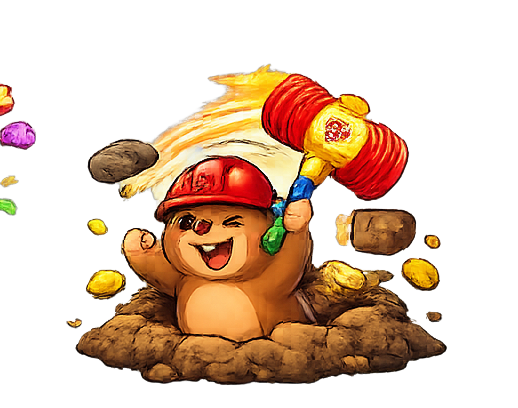
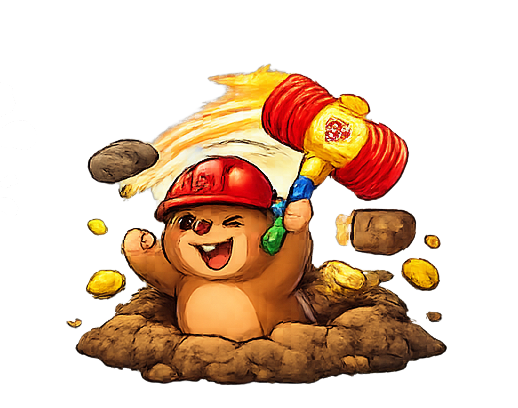
fix(mole): 라운드 전환 이미지 1,6번 좌측 잔여물 제거
mole1.png(라운드2 표시)의 좌측 상단에 인접 셀 보석 조각이,
mole6.png(라운드1 표시)의 좌측에 인접 셀 망치머리 조각이
배경 제거 후에도 남아있던 문제 수정. 알파채널 connected-component
분석으로 캐릭터 본체와 분리된 좌측 잔여 블롭만 투명화.

v189 -> v190

Claude-Session: https://claude.ai/code/session_019zDGSpPdNuMjtEW5BBibwY

Changed region(s): [[0.0, 0.2059, 0.0927, 0.3824], [0.0, 0.4118, 0.0309, 0.5294]]

diff --git a/mole/index.html b/mole/index.html
@@ -109,7 +109,7 @@
       </div>
 
       <!-- 시작 UI = 카톡풍 대화 (폰 화면 = 보드 안) -->
-      <div id="build-tag" aria-hidden="true">v189</div>
+      <div id="build-tag" aria-hidden="true">v190</div>
       <div id="board-start" class="board-panel board-start">
 
         <!-- 첫 방문: 전체 인트로 대화 -->
@@ -474,7 +474,7 @@
       } else {
         // ?v= 로 매 배포마다 URL을 바꿔서 GitHub Pages의 sw.js 캐시(max-age=600)를 무조건 우회 —
         // 안 그러면 배포 직후에도 최대 10분간 옛 서비스워커가 안 갈리는 경우가 있었음(사용자 보고).
-        navigator.serviceWorker.register('sw.js?v=189').catch(function () {});
+        navigator.serviceWorker.register('sw.js?v=190').catch(function () {});
       }
     });
   }

diff --git a/mole/sw.js b/mole/sw.js
@@ -3,7 +3,7 @@
 // 폴백 전용으로만 갱신한다. (예전엔 stale-while-revalidate라 배포해도 "다음 실행"에야
 // 반영돼 사용자 체감 대기가 길었음 — 온라인=항상 최신, 오프라인=마지막 캐시로 변경.)
 // SHELL 목록 자체가 바뀔 때만 CACHE 를 올린다.
-const CACHE = 'mole-game-v189';
+const CACHE = 'mole-game-v190';
 
 // bgm-boss-battle.mp3(6.8MB)는 SHELL 에 안 넣는다 — BGM 은 기본 꺼짐이라 켜는 사람만 받으면 된다.
 // vendor/face_mesh/*(약 10MB, 얼굴인식)도 SHELL 제외 — 사람두더지 메이커 처음 열 때만 필요.
